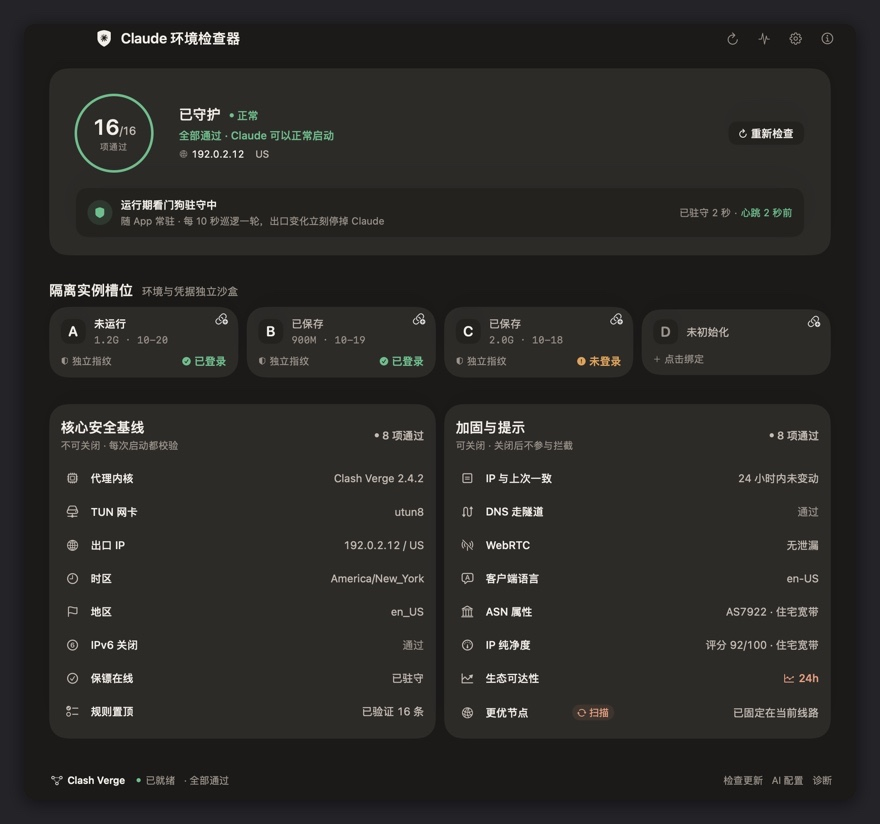
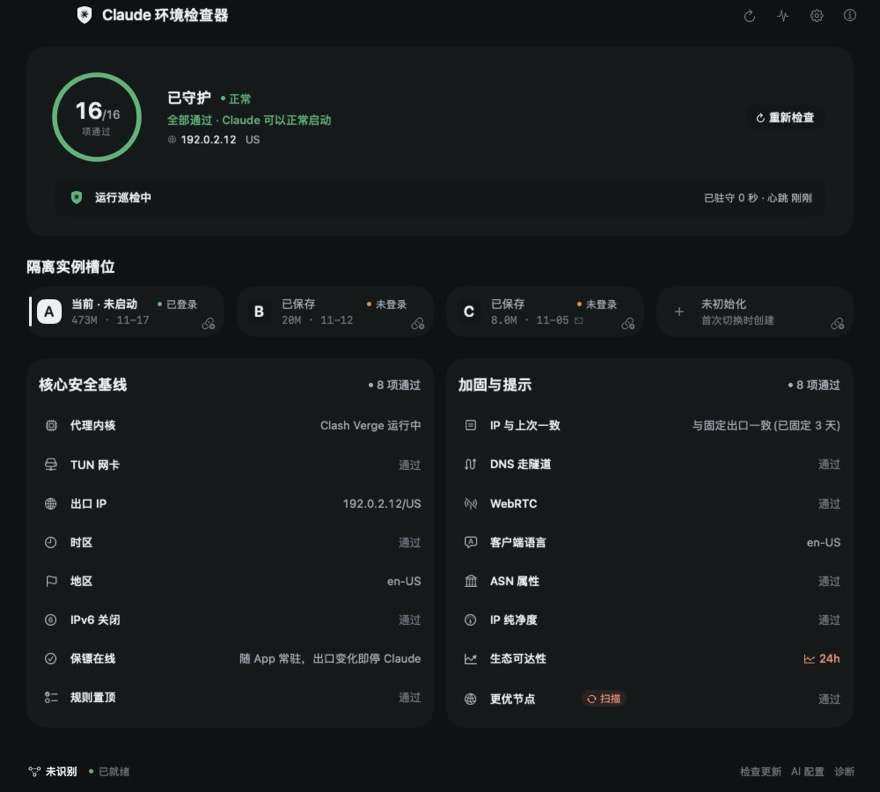
docs: 术语统一到「巡检」、槽位改 A–H，按新口径重写纯净度说明；截图重拍
- README / README.en / ARCHITECTURE / SECURITY / AGENTS：看门狗 → 巡检
- 槽位范围 A–D → A–H（命令示例、缓存文件名、目录路径、门禁判据一并改）
- 纯净度口径按当前实现重写：信誉维度连续扣分、类型只看结构证据、
  两级封顶（没正面证据 70 / 风险没验成 85），AGENTS 的「八条口径」
  第 3、7、8 条与缓存版本说明（v3→v7）同步更新
- 截图重拍：隔离探针 + 假核心，构造数据（192.0.2.12 / Comcast），
  docs/screenshot.png 1200×1080、docs/images/*.jpg 880×792；
  图上不再出现「看门狗」与旧的 70 分自相矛盾文案
- MenuBarFixture 支持 DEMO_HOME：截图不再把真机 incidents/rtt 画进去

diff --git a/tests/MenuBarFixture.swift b/tests/MenuBarFixture.swift
@@ -9,6 +9,12 @@ final class FixtureDelegate: AppDelegate {
             fatalError("隔离演示需要显式传入 fake-core.sh 路径")
         }
         super.init(vm: VM(core: CommandLine.arguments[1]))
+        // 截图用：把「拦截历史 / 延迟采样」指到演示目录，别把真机记录画进去。
+        // NSHomeDirectory() 不认 $HOME，所以这里显式改路径（两个字段在生产代码里是 var）。
+        if let demo = ProcessInfo.processInfo.environment["DEMO_HOME"] {
+            vm.incidentsPath = demo + "/.claude-switcher/incidents.log"
+            vm.rttPath = demo + "/.claude-switcher/rtt.log"
+        }
     }
 
     override func applicationDidFinishLaunching(_ notification: Notification) {

diff --git a/AGENTS.md b/AGENTS.md
@@ -36,10 +36,10 @@
 2. **不要把环境值写进代码或安装器 sed**。历史上安装器、`set-client`、`set-region`、自动更新都在用 sed 回写脚本头部 5 个变量,导致安装产物 ≠ 发布产物、SHA256 校验要剔除 5 行、升级还要回注——这套已全部拆除,别再引入。
 3. **探测不到就明确报错,不要静默用默认值**。`load_env` 遇到损坏的 env.json 会 fail,因为环境值错会直接把规则写进错误的代理组。
 
-关于时区看门狗(踩过一次,代价是「修好了又坏了」):
+关于时区巡检(踩过一次,代价是「修好了又坏了」):
 
-- **看门狗的目标值只能来自 env.json**,脚本里那份 `TARGET=` 只是读不到 env.json 时的兜底。原来安装器把目标烧死进脚本,`set-region` / `fix` 只改 env.json 和系统时区,没人回来改这份副本——看门狗于是每 5 分钟（`StartInterval 300`）把系统时区改回旧值,用户每次点「一键修复」都以为没生效。
-- **改系统时区必须同时对齐看门狗**,两件事要落在同一次管理员授权里(`fix` 的 `adminCmds`),否则修完几分钟就被改回去。
+- **巡检的目标值只能来自 env.json**,脚本里那份 `TARGET=` 只是读不到 env.json 时的兜底。原来安装器把目标烧死进脚本,`set-region` / `fix` 只改 env.json 和系统时区,没人回来改这份副本——巡检于是每 5 分钟（`StartInterval 300`）把系统时区改回旧值,用户每次点「一键修复」都以为没生效。
+- **改系统时区必须同时对齐巡检**,两件事要落在同一次管理员授权里(`fix` 的 `adminCmds`),否则修完几分钟就被改回去。
 - **`TARGET=` 有两种写法**:安装器写 `TARGET="x"`,同步时写 `TARGET=x`。读的一律剥引号,不要匹配引号。
 
 
@@ -58,7 +58,7 @@
 2. 探测代理客户端，用 `claude-switch.sh _support env-set "proxy_mode=..."` 写进 `~/.claude-switcher/env.json`：存在 Clash Verge 配置目录 → `clash-verge`；否则 `scutil --nc list` 有 Shadowrocket VPN 配置 → `shadowrocket`；都没有则让用户在 clash-verge/flclash/shadowrocket/sing-box/clashx/surge/auto 中选择
 3. Clash Verge 模式下，从 `clash-verge.yaml` 的 `proxy-groups:` 找第一个 `type: select` 的组名，同样用 `env-set "proxy_group=..."` 写入（其他客户端跳过）
 4. 按出口 IP 自动锁定地区目标：多源依次尝试 ipinfo.io（country/timezone）→ ipapi.co（country_code/timezone）→ ifconfig.co（country_iso/timezone）→ Cloudflare trace（loc，时区用国家默认映射），全失败时让用户在 US/JP/TW/HK/SG/GB/DE/FR/KR/AU/CA 中手动选，`FORCE=1` 按 US + America/New_York；country 经映射表（US→en_US、JP→ja_JP、TW→zh_TW、HK→zh_HK、SG→en_SG、GB→en_GB、DE→de_DE、FR→fr_FR、KR→ko_KR、AU→en_AU、CA→en_CA，其余→en_US）→ locale，然后用 `env-set "country=..." "timezone=..." "locale=..."` 写入 env.json
-5. 参照 `daemons/` 目录的模板，物化保镖与时区看门狗脚本（把 `__HOME__` / `__TZ_TARGET__` / `__PROXY_MODE__` / `__FAKE_PREFIX__` / `__LOG_DIR__` 替换为实际值；`__FAKE_PREFIX__` 由核心 `fake-prefix` 按 env.json 的 fake-ip 网段算出，不能退回写死 `198.18.`），用 sudo 装入 **root 所有的** `/Library/Application Support/claude-switcher/`（chown root:wheel、chmod 755，用户态不可写防提权）；`local.claude-bodyguard` / `local.tz-watchdog` 两个 LaunchDaemon 安装到 `/Library/LaunchDaemons/`（plist 的 ProgramArguments 已写死指向系统目录，直接 cp 即可）。自动更新 `local.claude-update` 是**用户态 LaunchAgent**：plist 放 `~/Library/LaunchAgents/`，用 `launchctl bootstrap gui/$(id -u)` 注册，不走 root（模板 `daemons/local.claude-update.plist`，每 12 小时跑一次 `update --auto`）
+5. 参照 `daemons/` 目录的模板，物化保镖与时区巡检脚本（把 `__HOME__` / `__TZ_TARGET__` / `__PROXY_MODE__` / `__FAKE_PREFIX__` / `__LOG_DIR__` 替换为实际值；`__FAKE_PREFIX__` 由核心 `fake-prefix` 按 env.json 的 fake-ip 网段算出，不能退回写死 `198.18.`），用 sudo 装入 **root 所有的** `/Library/Application Support/claude-switcher/`（chown root:wheel、chmod 755，用户态不可写防提权）；`local.claude-bodyguard` / `local.tz-watchdog` 两个 LaunchDaemon 安装到 `/Library/LaunchDaemons/`（plist 的 ProgramArguments 已写死指向系统目录，直接 cp 即可）。自动更新 `local.claude-update` 是**用户态 LaunchAgent**：plist 放 `~/Library/LaunchAgents/`，用 `launchctl bootstrap gui/$(id -u)` 注册，不走 root（模板 `daemons/local.claude-update.plist`，每 12 小时跑一次 `update --auto`）
 6. 现场编译界面 App（需要 Xcode 命令行工具，必须带 `-target` 否则新 SDK 产物在老系统拒启动）：
    ```bash
    swiftc -O -parse-as-library -target "$(uname -m)-apple-macos13.0" app/main.swift -o "Claude 环境检查器.app/Contents/MacOS/ClaudeSwitcher" -framework SwiftUI -framework AppKit
@@ -70,11 +70,11 @@
 8. 时区与 IPv6（已是目标值则跳过对应命令）：`systemsetup -settimezone <TZ_TARGET>`、对每个仍开启 IPv6 的网络服务执行 `networksetup -setv6off <服务名>`（需管理员；不能只关 Wi-Fi）
 9. 收尾自检：运行 `~/.local/bin/claude-switch.sh checkdetail` 确认各项状态
 
-日常维护命令：`help`（分组命令说明，含 ok/warn/config/fail/skip 五种结论的含义；未知命令直接指到这里）/ `check`（静默总检）/ `checkdetail`（16 项逐项；`checkdetail --json` 输出版本化报告并写 `last-report.json`）/ `report [报告]`（把已有文本报告转成稳定 ID / 证据 / 配置指纹 JSON，不重新探测）/ `lease`（从当前 established 报告签发 120 秒启动租约）/ `lease-check`（校验租约仍对应当前报告、环境与核心且未过期）/ `node-scan`（只读扫描当前控路 Selector 的候选节点，按纯净度排名出报告；不切节点、不动守护、不写 iphistory）/ `node-apply`（仅门禁允许时把最优节点切上去并固定；切前实时复核门禁、切后复查出口国家，不达标自动回滚）/ `fix`（一键修复）/ `switch A|B|C|D`（切换账号）/ `set-region`（换国家节点后重锁地区目标）/ `set-client <mode>`（安装后更换代理客户端：clash-verge|flclash|shadowrocket|sing-box|clashx|surge|auto，写 env.json）/ `env-set <key=value>...`（写环境层，键限 proxy_mode|proxy_group|country|timezone|locale|clash_dir|fake_ip_range；损坏的 env.json 会让核心脚本直接 fail，需用它重建）/ `drill [--auto|--manual] [--yes]`（fail-closed 演练：平时检查只能证明「流量走了代理」，证明不了「代理挂了会不会直连」。默认 auto 通过内核接口关 TUN——效果等价于核死时路由被撤销，但能精确恢复、不需要 sudo；`--manual` 走手动停核。结论写 `~/.claude-switcher/drill.log`。2026-11-01 实测本机为 `violated`：关掉 TUN 后域名探测直接从中国移动出口出去）/ `verdict [报告]`（只读复核 `last-check.txt`，输出 established|violated|incomplete 与 blockers/advisories/skipped；warn 与 skip 既不算 pass 也不算 fail；`config` 与 `fail` 一样计入 blockers；一项都没真正验证过是 incomplete——「没有失败」不等于「验过了」）/ `evidence <file>`（检查结果落 JSON：时间/主机/环境/逐项/判定，0600，只新建不覆盖）/ `fingerprint`（设备指纹体检：字体地区特征/GPU/虚拟机；Canvas/WebGL 用 Web 检测页）/ `cli-info`（Claude Code CLI 只读体检：版本/安装方式/多份安装冲突，不执行卸载升级）/ `open-safe <url>`（一次性隔离浏览器打开 http/https 链接；代理未就绪会拒绝，窗口关闭后销毁临时 profile）/ `snapshot-export <A|B|C|D> <file>` / `snapshot-import <file> <A|B|C|D>`（macOS 加密快照导出/导入，AES-256 DMG，密码经 stdin，目标槽位非空会拒绝）/ `update [--check|--auto]` / `update-check`（自动更新：`update-check` 为只读检查入口，只下载并校验、比对配置行后报告是否为新版本，不备份不写入；旧版核心不识别该入口时会安全退出，不会误触发真实更新；`update --check` 在新版中等价；`--auto` 由用户态 LaunchAgent 每 12 小时调用、输出落 `~/.claude-switcher/update.log`；手动跑则直接打印。完整流程：拉取 main → 逐项 SHA256 校验工件（对照仓库 SHA256SUMS，不符即中止）→ 整份比对核心脚本去重 → 备份 .bak → 替换脚本并把老版本脚本头部里的环境值迁进 `env.json` → 守护脚本仅比对并提示 → 自检，含任何 `=fail` 自动回滚）
+日常维护命令：`help`（分组命令说明，含 ok/warn/config/fail/skip 五种结论的含义；未知命令直接指到这里）/ `check`（静默总检）/ `checkdetail`（16 项逐项；`checkdetail --json` 输出版本化报告并写 `last-report.json`）/ `report [报告]`（把已有文本报告转成稳定 ID / 证据 / 配置指纹 JSON，不重新探测）/ `lease`（从当前 established 报告签发 120 秒启动租约）/ `lease-check`（校验租约仍对应当前报告、环境与核心且未过期）/ `node-scan`（只读扫描当前控路 Selector 的候选节点，按纯净度排名出报告；不切节点、不动守护、不写 iphistory）/ `node-apply`（仅门禁允许时把最优节点切上去并固定；切前实时复核门禁、切后复查出口国家，不达标自动回滚）/ `fix`（一键修复）/ `switch A|B|…|H`（切换账号）/ `set-region`（换国家节点后重锁地区目标）/ `set-client <mode>`（安装后更换代理客户端：clash-verge|flclash|shadowrocket|sing-box|clashx|surge|auto，写 env.json）/ `env-set <key=value>...`（写环境层，键限 proxy_mode|proxy_group|country|timezone|locale|clash_dir|fake_ip_range；损坏的 env.json 会让核心脚本直接 fail，需用它重建）/ `drill [--auto|--manual] [--yes]`（fail-closed 演练：平时检查只能证明「流量走了代理」，证明不了「代理挂了会不会直连」。默认 auto 通过内核接口关 TUN——效果等价于核死时路由被撤销，但能精确恢复、不需要 sudo；`--manual` 走手动停核。结论写 `~/.claude-switcher/drill.log`。2026-11-01 实测本机为 `violated`：关掉 TUN 后域名探测直接从中国移动出口出去）/ `verdict [报告]`（只读复核 `last-check.txt`，输出 established|violated|incomplete 与 blockers/advisories/skipped；warn 与 skip 既不算 pass 也不算 fail；`config` 与 `fail` 一样计入 blockers；一项都没真正验证过是 incomplete——「没有失败」不等于「验过了」）/ `evidence <file>`（检查结果落 JSON：时间/主机/环境/逐项/判定，0600，只新建不覆盖）/ `fingerprint`（设备指纹体检：字体地区特征/GPU/虚拟机；Canvas/WebGL 用 Web 检测页）/ `cli-info`（Claude Code CLI 只读体检：版本/安装方式/多份安装冲突，不执行卸载升级）/ `open-safe <url>`（一次性隔离浏览器打开 http/https 链接；代理未就绪会拒绝，窗口关闭后销毁临时 profile）/ `snapshot-export <A|B|…|H> <file>` / `snapshot-import <file> <A|B|…|H>`（macOS 加密快照导出/导入，AES-256 DMG，密码经 stdin，目标槽位非空会拒绝）/ `update [--check|--auto]` / `update-check`（自动更新：`update-check` 为只读检查入口，只下载并校验、比对配置行后报告是否为新版本，不备份不写入；旧版核心不识别该入口时会安全退出，不会误触发真实更新；`update --check` 在新版中等价；`--auto` 由用户态 LaunchAgent 每 12 小时调用、输出落 `~/.claude-switcher/update.log`；手动跑则直接打印。完整流程：拉取 main → 逐项 SHA256 校验工件（对照仓库 SHA256SUMS，不符即中止）→ 整份比对核心脚本去重 → 备份 .bak → 替换脚本并把老版本脚本头部里的环境值迁进 `env.json` → 守护脚本仅比对并提示 → 自检，含任何 `=fail` 自动回滚）
 
 检查设置：`get-check-config` / `set-check-config <json>` 读写 `~/.claude-switcher/checks.json`，App 齿轮与菜单栏也提供设置入口。只允许关闭 `IP一致`、`DNS`、`WebRTC`、`客户端语言`、`ASN属性`、`IP纯净度`、`生态可达性`、`更优节点`；禁用项必须真正跳过探测并显示灰色 `skip`，不能当作通过。`allowOptionalFailures` 只把这 8 项的失败降为警告；`strict` 把其中某些项升成硬门槛——设了就不受 `allowOptionalFailures` 影响，失败直接拦启动（「生态可达性设为安全基线」就是这条）。`strict` 与 `disabled` 互斥，同时出现时核心拒收。App 保存设置时必须把 `strict` 原样带回，漏掉等于每保存一次就静默清空安全基线。出口国家一致性、代理/TUN、Kill-Switch、保镖、账号归档安全、root 权限边界与更新 SHA256 等硬性安全项不可关闭或降级。
 
-关于 IP 纯净度（第 14 项，`ip_purity`）：口径是**类型基线 − 扣分**，基线取 ip.net.coffee 实测区间的中位（住宅 100 / 移动 85 / VPN 65 / 机房 55 / Tor 46 / 类型不明 70），判定阈值比分数严。八条不能改回去的口径：
+关于 IP 纯净度（第 14 项，`ip_purity`）：口径是**类型基线 − 扣分**，基线取 ip.net.coffee 实测区间的中位（住宅 100 / 移动 85 / VPN 65 / 机房 55 / Tor 46 / 类型不明 70），判定阈值比分数严。**扣分连续、类型与信誉分离**（2026-11-20 改，见第 3、7、8 条）。八条不能改回去的口径：
 
 1. **不要改回单源。** 四个源交叉：`api.ipquery.io`（风险标志+风险分）、`ip-api.com`（proxy/hosting/mobile+城市，免费档只支持 http）、`ipinfo.io`（ASN+城市，顺带省掉一次请求）、`api.stopforumspam.org`（滥用频次）。
 
@@ -83,7 +83,7 @@
    这条是 2026-11-19 改的，原因是实测样本：AS14956 的三个出口里，ipquery 三份响应每个字段都一样（`is_datacenter:true`、`risk_score:85`、`is_proxy:false`、`is_vpn:false`），只有 `144.172.65.26` 被 ip-api 单独标了 `proxy:true` —— 结果同一台机器换个 IP 就从 「43 warn 可启动」变成「53 fail 拦启动」。一个来源的一个布尔不该有这种决定权。
    **代价要说清楚**：只有 ip-api 报的代理特征（例如 Cloudflare WARP 那种 `ipquery` 只报 datacenter 的情形）从此不再拦启动，降为「机房 + 单源标记」。补偿是 ipquery 的 `is_proxy`/`is_vpn` 单独就算硬证据，以及 PTR 自曝仍算一源。如果以后拿到 WARP 的反例实测，要么补 PTR/org 的第二证据，要么把 `px_src` 阈值改回 1——改之前先想清楚这会重新引入「同节点换 IP 结论翻脸」。
 2. **不要丢掉 `dig +short -x`。** PTR 是出口自己写下的身份（`tor-exit-read-me.dfri.se`、`…static.cloudzy.com`、`c-73-158-10-5.hsd1.ca.comcast.net`），比任何第三方评分都硬；实测 fake-ip 不劫持反向解析。但也**不要加 DNSBL**：fake-ip 劫持所有 A 查询统一回 `198.18.0.x`，黑名单结果全是假的。
-3. **风险分与滥用记录取较大者，不许相加。** 两者都是历史信誉信号且高度相关（Tor 出口天然两项都高），相加等于同一个事实罚两次，会让 51 分和 49 分的机房得到相反结论。
+3. **风险分与滥用记录取较大者，不许相加，且各自都是连续函数。** 两者都是历史信誉信号且高度相关（Tor 出口天然两项都高），相加等于同一个事实罚两次，会让 51 分和 49 分的机房得到相反结论。各自档位也不许改回阶梯：风险分 `(risk×12+30)/60`（每 5 分风险 1 分信誉，60 以上封顶 12），滥用 `5+频次/5`（1 次 5 分，45 次以上封顶 14）。旧的阶梯档（1-10→3 / 11-25→7 / 26-50→9 / ≥51→12）有两个后果：同档内 1 和 10 同分、11 和 25 同分，数字看着精确其实只表达「在第几档」；档口还会跳，risk 10→11 一次掉 4 分。实测枚举下来旧口径只有 36 个可达分值，连续化后 32–100 每个整数都取得到。
 4. **地理那一维只标记、不扣分。** 先查三源城市是否一致。实测 RouterHosting `144.172.103.106` 被 ipquery/ipinfo 报犹他、被 ip-api 报内华达，跨了州；这时拿任一源的时区去要求用户对齐就是冤枉人，只能标「地理模糊」。住宅整段跳过（家宽注册地≠接入地不是风险，且另有时区项在管）；**Tor 与代理也必须跳过**——它们的「城市」是数据中心位置，三源按各自出口点库去标必然不一致（实测两个随机 Tor 出口全部命中），挂这个标记是纯噪声。
    **这些标记不再进分数**：地理维度和「时区」检查项说的是同一件事，扣一次分等于重复计费；而且 ip.net.coffee 的 Trust Score 不含这一维，我们多扣 4~6 分，用户拿两边一比就以为我们算错（2026-11-06 实测）。
 
@@ -91,7 +91,9 @@
 
 6. **分数与判定是两个轴，不要在文案里让用户互相反推。** 分数是 IP 信誉（宽口径，对齐 ip.net.coffee 的 Trust Score），判定回答「这次能不能开」。实测用户会拿「这个 53 分、那个 43 分」推断「53 更安全」，而 53 那个其实是 `fail`（VPN 基线 65 高于机房 55，越危险的类型基线反而越高）。做法：纯度文案末尾显式写 `判定:拦启动 / 判定:仅提示`；判定表本身按类型与证据走，机房只在分数掉到 30 以下（转租段）才拦。不要再把分数当判定的代理。
 
-7. **「没查到问题」不是「住宅」的证据。** `clean_residential`（两源都答、标志全否、risk≤10、无滥用、名字里无机房词）只能说明没有负面信号。实测 AS3257 GTT 的 `66.17.65.38` 靠这条拿到 `100/100 · 住宅宽带`，而它是骨干网地址。现在的口径：类型保留住宅（与参考站一致，不硬说成机房），**分数封顶 70** 并标 `·无正面住宅证据`；正面住宅证据只有两种——运营商名命中住宅白名单，或 PTR 自曝 `hsd/dynamic/dhcp/broadband/adsl/ppp/dial/dsl/fiber/cable`。
+7. **「没查到问题」不是「住宅」的证据；信誉维度也不许参与类型判定。** `clean_residential` 只说明没有负面结构信号（两源都答、`asn_org` 非空、运营商名不属机房、`dc`/`host_hint`/`px`/`tor`/`mob` 全空）。2026-11-20 之前它把「risk≤10 且无滥用」也写进条件，后果是同一个出口 `risk_score` 从 10 变 11，类型就从「住宅宽带」翻成「类型不明」、分数 67→63、还多一句「建议换住宅」——一个 1 分的信誉抖动改了三处结论。现在类型只由结构证据决定，`risk_score` / 滥用只进分数。
+   **分数封顶 70 的条件不变**：类型是住宅、但没有正面证据（运营商名命中住宅白名单，或 PTR 自曝 `hsd/dynamic/dhcp/broadband/adsl/ppp/dial/dsl/fiber/cable`）时封顶 70 并标 `·无正面住宅证据`。实测 AS3257 GTT 的 `66.17.65.38` 就停在这里：三家源都说干净，但拿不到正面证据。
+   **另有一条封顶 85**（第 8 条）：风险维度没验成时，分数最多 85、判定最多 `warn`，标 `·风险未验证·封顶`。70 和 85 含义不同，不要合并成一个数：70 是「类型对但没证据」，85 是「类型有证据但风险没验」。
 
 8. **「数据源认识这个地址吗」与「拿到几个风险信号」必须分开判（`known` 与 `src_n`），不要合并成一个布尔。** 前者回答地址是否真实存在，用来挡空壳响应（ipquery 对 `192.0.2.55` 会回结构完整、标志全 false、风险分 0 的空壳，和「住宅且毫无风险」长得一模一样）；后者回答证据够不够。合并之后两侧都会错：空壳拿到 100 分，或者在有运营商名、有 PTR 的情况下只回一句没有信息量的「未评级」。
 
@@ -99,16 +101,17 @@
 
    | 情形 | 结论 |
    |---|---|
-   | `src_n == 2` | 正常评分 |
-   | `src_n == 1` | 正常评分 + 标 `·仅一家风险源可达`（缺一家就可能漏判代理特征，但不改判定） |
+   | `src_n == 2` 且拿到 `risk_score` | 正常评分 |
+   | `src_n == 1` | 类型照判，**分数封顶 85、判定最多 warn**，标 `·仅一家风险源可达`（缺一家就可能漏判代理特征） |
+   | `src_n == 2` 但 ipquery 没给 `risk_score` | 同上，标 `·风险未验证·封顶`（分数标签写「风险未验证」） |
    | `src_n == 0` 且 `known` | **降级判型**：按运营商名 / PTR 定类型，`base` 封顶 70、判定封顶 warn，标 `·风险源不可达`，下一句换成「仅按运营商名或反向解析判型,稍后重查」 |
    | `known` 为空 | 「未评级」+ warn，且不写缓存 |
 
-   降级判型的两个封顶都不能拆：报 100 分是用「没查」冒充「查干净了」；把 warn 升成 fail 是拿我们自己的网络抖动去堵用户（IP 纯净度是可关闭的软信号，不是 Kill-Switch）。另外 PTR 能解出来本身就证明地址存在，所以 `rdns` 非空也算 `known` —— 三家 HTTP 源全挂时它是最后一根线索。
+   三个封顶都不能拆：报 100 分是用「没查」冒充「查干净了」（2026-11-20 之前 `src_n == 1` 确实会报 100/ok，实测 ipquery 挂掉时 Comcast 出口照样满分）；把 warn 升成 fail 是拿我们自己的网络抖动去堵用户（IP 纯净度是可关闭的软信号，不是 Kill-Switch）；降级的 70 与未验证的 85 是两档不同的证据状态，合并就分不出「类型不明」和「类型对但风险没验」。另外 PTR 能解出来本身就证明地址存在，所以 `rdns` 非空也算 `known` —— 三家 HTTP 源全挂时它是最后一根线索。
 
 机房出口只给 warn 不拦启动（大量用户就用机房节点），代理特征与 Tor 才拦；机房只有掉到 30 分以下（转租段+滥用记录）才拦。
 
-结果缓存 24 小时（`~/.claude-switcher/purity-cache.v4`），**查不到不写缓存**，否则一次网络抖动会把「未知」钉住一整天。缓存七个字段的顺序是 `ip|时间戳|判定|分数|类型|detail|cc`，分隔符是 `|`：不要改回 tab，tab 属于 IFS 空白，`read` 会把前导空字段整个吞掉，导致 score 与 detail 静默错位。第 7 列 `cc` 是出口国家代码，从已有的 ip-api / ipquery / ipinfo 响应里顺带取出，不发额外请求，供节点扫描的国家硬门槛使用。文件名带 `v3` 是因为多了这一列（v2 的 6 列没有它，混读会让 detail 把 `|US` 吞进去，宁可让旧缓存整体作废）；带 `v4` 是因为 2026-11-06 的类型判定改成证据驱动 —— 列结构没变、**结论口径变了**，不换名字的话升级后 24 小时内还会读到「类型不明 / 机房」的旧结论，用户重装完以为又没修好。改判定必须顺手换缓存名。**降级判型与「仅一家风险源可达」这两类结果不能缓存满 24 小时**——写入时把时间戳往前拨成仅剩 5 分钟 TTL，否则一次数据源抖动会把「没查干净」钉住一整天。多个 IP 并发打分时各自写缓存会互相覆盖，用 `mkdir .purity-cache.lock` 串行化。
+结果缓存 24 小时（`~/.claude-switcher/purity-cache.v7`），**查不到不写缓存**，否则一次网络抖动会把「未知」钉住一整天。缓存七个字段的顺序是 `ip|时间戳|判定|分数|类型|detail|cc`，分隔符是 `|`：不要改回 tab，tab 属于 IFS 空白，`read` 会把前导空字段整个吞掉，导致 score 与 detail 静默错位。第 7 列 `cc` 是出口国家代码，从已有的 ip-api / ipquery / ipinfo 响应里顺带取出，不发额外请求，供节点扫描的国家硬门槛使用。文件名带 `v3` 是因为多了这一列；`v4` 是类型判定改成证据驱动；`v5` 是代理特征按源计数 + 判定词显式化；`v6` 是住宅档不再劝人换住宅；`v7` 是信誉维度改连续扣分 + 风险未验证封顶 85 —— **分数本身变了**，不换名字会让新旧口径的数字混在同一个列表里。列结构没变但**结论口径变了**时也必须换名字，否则升级后 24 小时内还会读到旧结论，用户重装完以为又没修好。**降级判型、「仅一家风险源可达」、「风险未验证」这三类结果不能缓存满 24 小时**——写入时把时间戳往前拨成仅剩 5 分钟 TTL，否则一次数据源抖动会把「没查干净」钉住一整天。多个 IP 并发打分时各自写缓存会互相覆盖，用 `mkdir .purity-cache.lock` 串行化（超过 60 秒的残留锁自动回收）。
 
 **不要把「可关闭」摆到主界面上**：16 项默认全部拦启动，按能不能关分组会让人以为「有些可以不拦」，等于把降级当选项推荐。主界面只列一份清单；关闭入口只在设置页的「降级防护（不推荐）」里。关掉之后必须持续可见——主界面常驻橙色「防护已降级：…」，`check` 输出追加 `|防护降级:…`，否则命令行、日志、自动化这些看不到界面的地方完全无从判断。
 
@@ -125,9 +128,9 @@
 
 出口身份归一：`IP一致` 不直接比原始地址，而是比归一身份——v4 原样，v6 取 `/64` 前缀。`lastip` 按协议族各存一行，两族互不覆盖，所以同一节点双栈交替（先报 v4 再报 v6、或 v6 在同一 /64 内换接口标识）不会被判成「IP 变了」。旧版写下的裸地址在读取时自动迁移，升级后第一次检查不会误报。
 
-`IP一致` 的判据是**固定基线**：`ipbaseline-<A-D>` 存一行「身份 + 确立时间」，结论只回答「现在用的是不是这条固定出口」。不数「窗口里出现过几个出口」——跳到别处 → 被熔断 → 又切回原出口，这条链路里基线从没变过，用户回来继续用就是正常的，不该背一条「IP 变过」的记录。第一次运行把当前出口记为基线且不告警；不一致时按 `ip_class` 分级措辞（机房/家宽/其它），并给出「已固定多久」与改法，改基线只能 `ip-baseline accept`（`ip-baseline show` 查当前值与天数）。**绝不自动采纳新出口**，否则「一周不变」当场作废。
+`IP一致` 的判据是**固定基线**：`ipbaseline-<A-H>` 存一行「身份 + 确立时间」，结论只回答「现在用的是不是这条固定出口」。不数「窗口里出现过几个出口」——跳到别处 → 被熔断 → 又切回原出口，这条链路里基线从没变过，用户回来继续用就是正常的，不该背一条「IP 变过」的记录。第一次运行把当前出口记为基线且不告警；不一致时按 `ip_class` 分级措辞（机房/家宽/其它），并给出「已固定多久」与改法，改基线只能 `ip-baseline accept`（`ip-baseline show` 查当前值与天数）。**绝不自动采纳新出口**，否则「一周不变」当场作废。
 
-出口历史（`iphistory-<A-D>.log`）只剩证据用途，不是判据：只在出口**变化**时追加一行，稳态零写入、零统计；只有已判定与基线不一致时才 `iphist_count` 一次，用来区分「第一次跳」和「老在跳」。这条设计是响应速度的关键——原来每次检查都要重写整个文件并逐行归一，实测 2000 行 1.3s / 20000 行 13s，而它对当次结论没有任何贡献。文件按实例分开，读不到槽位时退回单份旧文件。`出口IP` 走 v6 时**不再**额外标注「IPv6 出口」——冒号地址本身已说明协议族，补这一句反而容易让用户误以为自己开了本机 IPv6。三条相关行各说各的层，不要合并：`IPv6` 查本机网卡（出口是 v6 时写「本机已关闭 · 节点出口为 IPv6」）；`出口IP` 报节点侧对 Cloudflare 呈现的地址；`WebRTC` 的 STUN 探针只走 v4，无 v4 出口时写「节点无 IPv4 出口，STUN 只回 IPv4，无法比对(非泄漏)」。
+出口历史（`iphistory-<A-H>.log`）只剩证据用途，不是判据：只在出口**变化**时追加一行，稳态零写入、零统计；只有已判定与基线不一致时才 `iphist_count` 一次，用来区分「第一次跳」和「老在跳」。这条设计是响应速度的关键——原来每次检查都要重写整个文件并逐行归一，实测 2000 行 1.3s / 20000 行 13s，而它对当次结论没有任何贡献。文件按实例分开，读不到槽位时退回单份旧文件。`出口IP` 走 v6 时**不再**额外标注「IPv6 出口」——冒号地址本身已说明协议族，补这一句反而容易让用户误以为自己开了本机 IPv6。三条相关行各说各的层，不要合并：`IPv6` 查本机网卡（出口是 v6 时写「本机已关闭 · 节点出口为 IPv6」）；`出口IP` 报节点侧对 Cloudflare 呈现的地址；`WebRTC` 的 STUN 探针只走 v4，无 v4 出口时写「节点无 IPv4 出口，STUN 只回 IPv4，无法比对(非泄漏)」。
 
 客户端日志与诊断：默认在 `~/Library/Logs/claude-switcher/client.log` 记录脱敏命令元数据，512 KiB 后轮转为 `client.log.1`，可用配置中的 `logging` 关闭。`export-diagnostics <file>` 与 App「导出诊断日志」生成 zip，只含客户端日志、检查设置和脱敏环境/状态摘要。不得把公网/住宅/代理 IP、Bearer/token/session/cookie、账号内容、Clash 配置、`lastip`、`iphistory` 或原始 `last-check.txt` 写入日志或诊断包。
 
@@ -135,16 +138,16 @@
 
 ## 节点扫描与应用（第 16 项，只读优先）
 
-写这一层代码前先把边界记住：**扫描只读，应用只在门禁允许时切一次**。逐节点「切上去实测出口」那条路会写 N 条 `iphistory.log`，把「IP 与上次一致」凭空扣成分数，还会被看门狗当成出口变化直接停掉 Claude——不允许走。
+写这一层代码前先把边界记住：**扫描只读，应用只在门禁允许时切一次**。逐节点「切上去实测出口」那条路会写 N 条 `iphistory.log`，把「IP 与上次一致」凭空扣成分数，还会被巡检当成出口变化直接停掉 Claude——不允许走。
 
 - `node-scan` 从运行中内核的 `/proxies` 沿 `now` 链找到**最深一层含叶子的 Selector**，只列当前真正控路的组；递归列所有嵌套 Selector 会把「☑ 手动切换」那 75 个无关节点也带进来。
 - 合并配置 `proxies:` 块只按白名单读 `name / server / servername / sni / host / type / udp / network` 八个字段，**不读 `uuid` / `password` / 证书**，不导出订阅原文，报告与诊断包都不含凭据。这与 FlClash 一键修复的「不读订阅节点与凭据」是两条独立边界：那条写规则数据库、不碰节点；这条只读节点名和入口地址、不写任何代理配置。
 - **硬门槛先于纯净度**：国家不符 / 国家取不到 / Tor 或代理判定 / UDP 未标注的节点都不参与推荐。带 `servername` / `Host` 的 CDN 前置节点 `server` 只是入口，标「出口未知」并排除，不能拿入口 IP 打分。多个叶子共用同一落地 IP 只查一次。
 - 差距不足 `NODE_SCAN_MARGIN`（10 分）不出 `BEST`，免得每次扫描都催用户改线路；清空 `BEST` 时必须连 `BEST_IP` / `BEST_SCORE` / `BEST_SELECTOR` 一起清，别留半截报告。
 - `checkdetail` 的第 16 项**只读报告文件**，绝不在 45 秒检查预算里发网络请求。没有报告 / 报告过期 → `skip`，不是 `ok`；`skip` 不扣分，用户关掉检查项不该反而掉分。有 `preferred-node` 时，`PREFERRED_MATCH=0` 优先于「还有更优节点」报「已偏离固定节点」。
-- 报告门禁 `node_gate()` 只看两个**瞬时**事实：Claude 进程 / CLI 在跑、看门狗仍在驻守，任一成立即 `report-only`。**不要**再把「任一 A–D 已建档槽位」算进去 —— 槽位是常驻资产，存过一次 `hasA=1` 就永远为真，那条判据会让 `node-apply` 对任何用过本工具的人永久拒绝，界面上「应用最优节点」从不出现。执行门禁 `node_apply_gate()` 必须**重新实时判定**，不信报告里的旧快照；看门狗那条从「pidfile 存在」升级为「进程确实已不在跑」的事实检查，残留 pidfile 不阻塞、真有守护仍拒绝。
+- 报告门禁 `node_gate()` 只看两个**瞬时**事实：Claude 进程 / CLI 在跑、巡检仍在驻守，任一成立即 `report-only`。**不要**再把「任一 A–H 已建档槽位」算进去 —— 槽位是常驻资产，存过一次 `hasA=1` 就永远为真，那条判据会让 `node-apply` 对任何用过本工具的人永久拒绝，界面上「应用最优节点」从不出现。执行门禁 `node_apply_gate()` 必须**重新实时判定**，不信报告里的旧快照；巡检那条从「pidfile 存在」升级为「进程确实已不在跑」的事实检查，残留 pidfile 不阻塞、真有守护仍拒绝。
 - 换槽位时这条链自己会走一遍（`VM.optimizeNodeForSwitch`）：审计通过 → `slot-node get <目标>` → `node-scan` → 有绑定就切绑定那条、否则报告里真有 `BEST` 才切 → `stopWatch()` + `node-apply <叶子>` → 重新审计 → 再切账号。三个例外都必须保留：扫描失败不阻断切换；`node-apply` 失败不阻断切换（只把原因写进回执）；换完线路重新审计没过就**不切账号**（fail-closed，新账号第一次连上的就是那条出口）。
-- **绑定优先于本次最优**：`BEST` 是「现在谁更干净」的比较结果，绑定是「这个身份就该走这条线」的声明，后者不能被一次扫描盖掉。所以 `node_apply` 支持显式叶子（`node-apply <leaf>`），无参时才取报告里的 `BEST`。绑定存 `$BASE/slot-node/<A-D>`，格式 `selector<TAB>leaf<TAB>epoch`，**不存分数**；命令族 `slot-node list|get|set|clear`。界面在槽位卡右上角给常驻的链接图标菜单，选项只来自最近一次报告的 `CURRENT` / `TOP1-3`，不让人手敲节点名。
+- **绑定优先于本次最优**：`BEST` 是「现在谁更干净」的比较结果，绑定是「这个身份就该走这条线」的声明，后者不能被一次扫描盖掉。所以 `node_apply` 支持显式叶子（`node-apply <leaf>`），无参时才取报告里的 `BEST`。绑定存 `$BASE/slot-node/<A-H>`，格式 `selector<TAB>leaf<TAB>epoch`，**不存分数**；命令族 `slot-node list|get|set|clear`。界面在槽位卡右上角给常驻的链接图标菜单，选项只来自最近一次报告的 `CURRENT` / `TOP1-3`，不让人手敲节点名。
 - 界面读绑定是直接读盘（`VM.loadSlotNodes`），核心脚本负责写。两处各自拼同一个路径，改动必须同步；`tests/test_cli_slot.py::SlotNodeBindingTests` 钉着这条契约。跟 `probeSlotLogin` 一样，读取属于显示需求，不塞进 `status` 的输出契约。
 - 守护归 App 管、切换归脚本管：App 先 `stopWatch()`，`node-apply` 不杀 App 持有的守护（否则 App 会误报「守护意外退出」），切完由 `checkEnvironment` 通过后自动 `startWatch()`。已建立的连接不会迁移；只对 `Selector` 生效，`URLTest` / `Fallback` 会被自动选路覆盖。
 
@@ -192,9 +195,9 @@ IP 纯净度那侧是独立的证据 bug，别和上面混：
 | 内容 | 桌面版 Claude | Claude Code |
 | --- | --- | --- |
 | 实时路径 | `~/Library/Application Support/Claude` | `~/.claude/`、`~/.claude.json` |
-| 槽内存档 | `$BASE/accounts/<A-D>/` | `$BASE/cli/<A-D>/home/`、`$BASE/cli/<A-D>/home.json` |
+| 槽内存档 | `$BASE/accounts/<A-H>/` | `$BASE/cli/<A-H>/home/`、`$BASE/cli/<A-H>/home.json` |
 
-- **不要**把 `~/.claude` 塞进 `accounts/<A-D>` 树：那棵树的语义是「桌面版数据目录的内容」，混入子目录会被原样复制回 `DATA`。并列放 `$BASE/cli` 也不动老快照，避免迁移几百 MB 历史目录。
+- **不要**把 `~/.claude` 塞进 `accounts/<A-H>` 树：那棵树的语义是「桌面版数据目录的内容」，混入子目录会被原样复制回 `DATA`。并列放 `$BASE/cli` 也不动老快照，避免迁移几百 MB 历史目录。
 - 归档用**移动语义**：`archive_cli` 先 `mv ~/.claude`，失败要能把已挪走的部分放回原位，不能留「目录没了、`~/.claude.json` 还在」的半截状态；`restore_cli` 会**先清空现场**再放回，目标槽位没存档时 `~/.claude` 和 `~/.claude.json` 一并删除 —— 否则没存过的槽位会接着用上一个账号的登录态，等于没隔离。
 - `switch_to` 开头用 `claude_cli_running` 挡住「终端里开着 claude 就切」：CLI 没有 osascript 那种优雅退出口子，直接把正在写的目录抽走会丢状态。进程判据三选一：`pgrep -x claude`（brew / `~/.local/bin` 的原生二进制，`argv[0]` 就是 `claude`）、`claude-code/cli.js`、`@anthropic-ai/claude-code`；大小写敏感，不能误伤桌面 App 的 `Claude`。
 - `status` 会把每个槽位的 CLI 存档体积报成 `cliA=151M@2026-11-04`，界面据此在卡片上加一个 `CLI` 角标；老脚本不输出这个字段，缺了就当没有，不能因此判 `status` 失败。
@@ -233,7 +236,7 @@ App 检查入口已改为 `checkdetail --json`：JSON 成功时按 `reportRowMap
 
 顺带修掉的既有缺陷：`build_report` 装配 `probes` 时取的是 `probes.get(...)`，条件却是 `if probes or drill`。**跑过一次 drill、又没有本轮 probes sidecar 时（离线 `report` 与 sidecar 失败两条路），对 None 取 `.get` 直接崩，整份 JSON 报告生成失败。**现在是 `(probes or {}).get(...)`。加可选字段时，判空条件要和取值对象对齐。
 
-## 运行期出口看门狗（watch）
+## 运行期出口巡检（watch）
 
 `check` 是拉起前的门禁，只管那一刻。`watch [间隔] [整轮周期]` 管「已经在用」的那段时间：出口变了就立刻停 Claude。四条纪律，改它之前先读完：
 
@@ -241,8 +244,8 @@ App 检查入口已改为 `checkdetail --json`：JSON 成功时按 `reportRowMap
 2. **v4/v6 分族记账，v6 只比 `/64` 前缀**。同一台机器在 v4 与 v6 之间来回切是代理正常行为，不是出口变化；v6 后缀轮换同理（隐私扩展地址天天换）。只有前缀变了才算换了网段。
 3. **一次失败不动手**。整轮审计失败先 `sleep 5` 复检，仍失败才停；出口探测连续 3 次拿不到地址才判定代理已断。一次 curl 抖动就杀进程，比漏判更让人受不了——这条是用户原话，别改。
 4. **停 Claude 必须落到 `pkill`**。`osascript quit` 对 Tauri/Electron 应用经常无响应，等 3 秒仍在就直接 `pkill`，同时清掉 `claude-code/cli.js` 与 `@anthropic-ai/claude-code` 两类 CLI 进程。少清一类，就会留下一个还在发请求的进程。
-5. **`TERM`/`INT` 的 trap 里必须 `exit`**。bash 的 trap 执行完会回到被中断的地方继续跑，只删 pidfile 不 `exit` 的话，App 的 `terminate()` 压根停不下看门狗——实测就是这样每重启一次 App 就多一个孤儿守护，各自拿一份基线判出口。`EXIT` 分支只做清理，不要 `exit`（会递归）。
-6. **定位看门狗只认 pidfile，不用 `pkill -f "claude-switch.sh watch"`**。`-f` 匹配整条命令行，任何命令行里含这串字的进程都会被误杀——包括用户自己的 `grep`、`tail`，以及诊断命令本身。实测踩到过，表现为「正在跑的 shell 突然收到 SIGTERM」。App 侧读 pidfile 后还要用 `ps -p <pid> -o command=` 确认一次，避免 pid 复用误杀无关进程。
+5. **`TERM`/`INT` 的 trap 里必须 `exit`**。bash 的 trap 执行完会回到被中断的地方继续跑，只删 pidfile 不 `exit` 的话，App 的 `terminate()` 压根停不下巡检——实测就是这样每重启一次 App 就多一个孤儿守护，各自拿一份基线判出口。`EXIT` 分支只做清理，不要 `exit`（会递归）。
+6. **定位巡检只认 pidfile，不用 `pkill -f "claude-switch.sh watch"`**。`-f` 匹配整条命令行，任何命令行里含这串字的进程都会被误杀——包括用户自己的 `grep`、`tail`，以及诊断命令本身。实测踩到过，表现为「正在跑的 shell 突然收到 SIGTERM」。App 侧读 pidfile 后还要用 `ps -p <pid> -o command=` 确认一次，避免 pid 复用误杀无关进程。
 
 拦截后的提醒走三条路：窗口横幅、菜单栏图标、系统通知。**通知不能省**——出问题时用户多半没开着窗口，前两条都看不见。通知走 `osascript display notification` 而不是 `UNUserNotificationCenter`：App 是 ad-hoc 签名，重签名后通知授权会失效。
 
@@ -254,7 +257,7 @@ App 检查入口已改为 `checkdetail --json`：JSON 成功时按 `reportRowMap
 
 7. **拦截必须留结构化记录**。`stop_claude_now` 末尾调 `watch_incident <原因> <类型>`，写 `incidents.log`：TAB 分隔「时间 / 类型 / 原因」三列，只留最近 50 条。界面的「拦截记录」卡片按 TAB 切列渲染，**列数或分隔符一改，界面就整条丢掉**。`watch.log` 是流水账（启动/复检/接管全在里面），别拿它当历史——用户想回看「上次为什么被停」时，从几百行里捞是灾难。空原因不写：一条只有时间的记录只会把真记录挤出 50 条窗口。
 
-App 退出时必须 `stopWatch()`。App 关了而看门狗还在杀 Claude，是最坏的一种组合。
+App 退出时必须 `stopWatch()`。App 关了而巡检还在杀 Claude，是最坏的一种组合。
 
 ## 验收标准（全部满足才算装完）
 
@@ -270,7 +273,7 @@ App 退出时必须 `stopWatch()`。App 关了而看门狗还在杀 Claude，是
 | 症状 | 根因 | 处理 |
 |---|---|---|
 | TUN 网卡消失、出口变回国内 | **Clash Verge 更新/异常重启会把 `enable_tun_mode` 重置为 false** | 退出 App → 改 `verge.yaml` 为 true → 重启 App。切换器的一键修复已内置此逻辑 |
-| 时区总是自己变回去 | macOS 自动时区或未知程序改动 | 看门狗会自动回滚；查 `/var/log/claude-switcher/tz-watchdog.log`（旧安装件仍在 `~/Library/Logs/tz-watchdog.log`）留痕 |
+| 时区总是自己变回去 | macOS 自动时区或未知程序改动 | 巡检会自动回滚；查 `/var/log/claude-switcher/tz-watchdog.log`（旧安装件仍在 `~/Library/Logs/tz-watchdog.log`）留痕 |
 | 检查结果显示 0/11、数据为空 | 中文日志被 `cut -c` 按字节截断产生非法 UTF-8，Swift 严格解码整体失败 | 脚本必须 `export LC_ALL=en_US.UTF-8`；界面端用容错解码 `String(decoding:as:)` |
 | 修改 App 后界面没变化 | 菜单栏版本关闭窗口仅隐藏；`pkill` 匹配中文路径还可能因 Unicode NFD 编码失配而静默失败 | 先从盾牌菜单选「退出 Claude 环境检查器」，再替换 App；开发排障也可按进程名退出测试实例。不要把关窗改回退出，以免破坏菜单栏驻留 |
 | headless Chrome 做 WebRTC 检测无结果 | headless 模式 ICE 子系统不产出候选 | 不要走浏览器路线，用本项目的纯 Python STUN 探针 |
@@ -290,7 +293,7 @@ App 退出时必须 `stopWatch()`。App 关了而看门狗还在杀 Claude，是
 3. 不要在日志、文档、Issue 里暴露用户的住宅/代理 IP 与任何凭据
 4. 不要改动 `~/.claude-switcher/accounts/` 下的存档结构
 5. **维护纪律**：`core/`、`daemons/`、`installer/` 下任何文件改动后，提交前必须运行 `scripts/gen-sums.sh` 重新生成根目录 `SHA256SUMS` 并同提交——自动更新靠它校验工件完整性，清单与代码不一致会导致所有用户更新失败
-6. **守护进程脚本只在 root 目录**：`/Library/Application Support/claude-switcher/` 下的保镖/看门狗属 root:wheel，任何功能都不要改回写 `~/.local/bin/` 下的同名脚本（用户可写=提权面）；需要变更时引导用户重跑安装器。日志写在 root 所有的 `/var/log/claude-switcher/`，不要以 root 追加到用户目录（符号链接会被跟过去）
+6. **守护进程脚本只在 root 目录**：`/Library/Application Support/claude-switcher/` 下的保镖/巡检属 root:wheel，任何功能都不要改回写 `~/.local/bin/` 下的同名脚本（用户可写=提权面）；需要变更时引导用户重跑安装器。日志写在 root 所有的 `/var/log/claude-switcher/`，不要以 root 追加到用户目录（符号链接会被跟过去）
 
 ## 问题修复决策规则（Agent 必须遵守）
 
@@ -314,7 +317,7 @@ Windows 用户请使用 `windows/` 下的 PowerShell 版本。关键差异与注
 - **保镖实现**：用计划任务（AtLogOn 触发）启动隐藏 PowerShell 常驻进程，10 秒巡检，与 Mac 版行为一致。
 - **robocopy 退出码**：0-7 都是成功，8+ 才是失败——判断切换成败时不要按常规退出码判断。
 - **切换写入顺序**：先复制到 `accounts\<槽位>.new`，复制成功后才改名提交，旧快照暂存为 `.previous`。同盘时，载入暂存与换位备份放在 `%USERPROFILE%\.claude-switcher\staging\Claude.new` / `Claude.old`，避免 `%APPDATA%` 同时出现多个 Claude 数据目录；重定向到不同盘时回退 `%APPDATA%\Claude.new` / `Claude.old` 以避免跨卷改名。数据与 `current.txt` 先一起提交，再清理旧目录。预先存在的不明残留一律拒绝覆盖、绝不自动删除；仅 `staging\cleanup.json` 能证明路径与当前账号归属的 `Claude.old` 可在下次切换前重试清理。隔离回归：`powershell -NoProfile -ExecutionPolicy Bypass -File tests\windows-switch-integration.ps1`（临时目录 + 打桩进程，不需要真机账号）。
-- **账号数据目录**：传统 EXE 版为 `%APPDATA%\Claude`；旧目录不存在时自动发现 MSIX/Appx 的 `%LOCALAPPDATA%\Claude-Data\<PackageFamilyName>`（不是 macOS 的 `~/Library/Application Support/Claude`）。WPF 与 `status` 均支持 A–D、快照大小和日期；切换前必须重新完成审计。`keep-in-workspace.txt` 的语义与 macOS 相同，但 Windows 还需拒绝重解析点。
+- **账号数据目录**：传统 EXE 版为 `%APPDATA%\Claude`；旧目录不存在时自动发现 MSIX/Appx 的 `%LOCALAPPDATA%\Claude-Data\<PackageFamilyName>`（不是 macOS 的 `~/Library/Application Support/Claude`）。WPF 与 `status` 均支持 A–H、快照大小和日期；切换前必须重新完成审计。`keep-in-workspace.txt` 的语义与 macOS 相同，但 Windows 还需拒绝重解析点。
 - **代理客户端**：支持 `clash-verge` / `flclash` / `sing-box` / `clashx` / `surge` / `wireguard` / `other` / `auto`。`set-client` 同时更新核心脚本与 `proxy-mode.txt`，保镖每轮重新读取该文件；不要套用 macOS 的 root 守护同步方式。
 - **工具与快照**：`fingerprint`、`cli-info`、`open-safe`、`diagnose-proxy` 均已提供 Windows 实现。`snapshot-export` / `snapshot-import` 使用流式 `.csnap`（PBKDF2-HMAC-SHA256 200,000 轮、AES-256-CBC、HMAC-SHA256），不与 macOS DMG 兼容；密码仅经 stdin，先认证再解压，目标槽位非空或包路径越界必须拒绝。隔离回归另有 `tests\windows-snapshot-integration.ps1`。
 - **检查设置与日志**：Windows 有自己的 6 项非关键检查白名单（macOS 为 8 项），`allowOptionalFailures` 的作用边界与 macOS 一致；配置在 `%USERPROFILE%\.claude-switcher\checks.json`，脱敏日志在 `%USERPROFILE%\.claude-switcher\logs\client.log`，512 KiB 轮转。WPF 设置窗口和 `export-diagnostics` 可导出脱敏诊断 zip，不得包含账号、IP、凭据、Clash 配置或原始检查详情。独立代理诊断不得创建账号状态或写客户端日志。

diff --git a/README.md b/README.md
@@ -20,7 +20,7 @@
 
 ## 这是什么
 
-启动 Claude 之前跑完 **16 项环境审计**，硬性项不过就不拉起应用；放行之后由运行期看门狗守着出口，一变就停 Claude。账号切换用整目录快照（A–D 四个独立档案），而不是反复登录登出。
+启动 Claude 之前跑完 **16 项环境审计**，硬性项不过就不拉起应用；放行之后由运行期巡检守着出口，一变就停 Claude。账号切换用整目录快照（A–H 八个独立档案），而不是反复登录登出。
 
 桌面窗口标题为「Claude 环境检查器」，命令行入口 `~/.local/bin/claude-switch.sh`。界面是单文件 SwiftUI，无 Xcode 工程、无第三方依赖；图标由 `assets/icon-gen.swift` 生成。
 
@@ -42,7 +42,7 @@
 | 02 | TUN 网卡 | 系统代理开着但流量没被接管 |
 | 03 | 出口 IP | 出口国家 / 地区异常 |
 | 04 | IP 一致性 | 出口 IP 漂移（对固定基线比对 + 按出口类型分级，同一实例一周内不应换出口） |
-| 05 | 时区 | 系统时区与 IP 归属地冲突、看门狗守着旧目标 |
+| 05 | 时区 | 系统时区与 IP 归属地冲突、巡检守着旧目标 |
 | 06 | 地区 Locale | 系统区域设置不符 |
 | 07 | IPv6 | 双栈旁路直连 |
 | 08 | DNS 隧道 | Fake-IP 校验 + 上游解析器地域 |
@@ -68,9 +68,10 @@
 ## 重点能力
 
 - **四维加权评分**：身份 / 隔离 / 一致 / 守护四个维度，用来诊断和排序。首页**不显示这个分**——圆环里是「16/16」这样一个读数（通过项数 / 总项数），环的粗细只做边框、颜色只回答「能不能启动」。分数低不等于起不来：IP 纯净度偏低会让分掉下来，但它只是软信号，照样能启动。
-- **IP 纯净度**：四源交叉（ipquery / ip-api / ipinfo / stopforumspam）+ 本地 PTR，类型基线减分。代理特征要**两家以上**印证（或 ipquery 自己报出来）才拦启动；只有 ip-api 单方面报、而其余源都说机房时，判机房并标「代理特征(单源)」，只提示不拦。分数是信誉分、判定是「能不能开」，文案里两者分开写（`判定:拦启动 / 判定:仅提示`）—— 同名同分不代表同一结论。只靠「没查到异常」判出来的住宅封顶 70 分，满分留给有正面住宅证据的出口。
+- **IP 纯净度**：四源交叉（ipquery / ip-api / ipinfo / stopforumspam）+ 本地 PTR，类型基线减分。代理特征要**两家以上**印证（或 ipquery 自己报出来）才拦启动；只有 ip-api 单方面报、而其余源都说机房时，判机房并标「代理特征(单源)」，只提示不拦。分数是信誉分、判定是「能不能开」，文案里两者分开写（`判定:拦启动 / 判定:仅提示`）—— 同名同分不代表同一结论。
+- **扣分是连续的，封顶只在证据不足时用**：风险分每 5 分扣 1 分信誉（60 分以上封顶扣 12），滥用记录 1 次扣 5 分、45 次以上扣 14，没有「档口跳变」。类型只看结构证据（机房标志 / 代理特征 / Tor / PTR / 运营商名），**不受信誉分影响**——否则同一个出口 risk_score 差 1 分，类型标签、分数和动作建议会一起翻。两种封顶：只靠「没查到异常」判出来的住宅封顶 **70**（满分留给有正面住宅证据的出口）；风险维度没验成（缺 `risk_score`、只剩一家风险源、或整轮降级）封顶 **85** 且最多只给「仅提示」——「没查」不能冒充「查干净了」。这类结果 5 分钟后自动重查。
 - **节点扫描与应用**：只读扫描当前控路 Selector 的候选节点并排名；「应用最优节点」只在门禁允许时出现，按下时实时复核门禁、切后复查出口国家，任一步不达标自动回滚。细节见 [AGENTS.md](AGENTS.md)。
-- **一槽一套环境**：切 A–D 时连同 Claude Code 的 `~/.claude/` 与 `~/.claude.json` 一起换，桌面版和终端不再共用同一份登录态。槽位卡上的 `CLI` 角标表示这个槽位也存了终端状态。
+- **一槽一套环境**：切 A–H 时连同 Claude Code 的 `~/.claude/` 与 `~/.claude.json` 一起换，桌面版和终端不再共用同一份登录态。槽位卡上的 `CLI` 角标表示这个槽位也存了终端状态。
 - **槽位绑定出口**：可以给每个槽位声明「就走这条线」，切过去时先换线路再切账号；没绑定的槽位沿用「本次扫描最优节点」。绑定优先于本次扫描结果。
 - **运行期守护**：放行后每 10s 比对出口、每 60s 跑整轮审计；异常连续两次才停 Claude，拦截写 `incidents.log` 并走窗口横幅 / 菜单栏 / 系统通知三条提醒。
 - **菜单栏常驻**：关窗口只隐藏、Dock 不显示图标；菜单显示当前槽位与最近检查结果。
@@ -138,7 +139,7 @@ cd claude-switcher
 # 双击 installer/安装.command，自动识别代理客户端、代理组名与地区目标
 ```
 
-安装器在本机编译界面 App、装入核心脚本与保镖 / 时区看门狗。产物为 ad-hoc 签名、未公证，首次被 Gatekeeper 拦截时右键打开，或到「系统设置 → 隐私与安全性」放行；手动打包见 `scripts/package-macos.sh`。打 `v*` 标签推送即触发 `.github/workflows/release.yml` 自动构建并发布全平台安装包。
+安装器在本机编译界面 App、装入核心脚本与保镖 / 时区巡检。产物为 ad-hoc 签名、未公证，首次被 Gatekeeper 拦截时右键打开，或到「系统设置 → 隐私与安全性」放行；手动打包见 `scripts/package-macos.sh`。打 `v*` 标签推送即触发 `.github/workflows/release.yml` 自动构建并发布全平台安装包。
 
 Windows / Linux Beta 见 [windows/README.md](windows/README.md) · [linux/README.md](linux/README.md)。浏览器侧检测页在 `docs/`，线上地址 [huanfine.github.io/claude-switcher](https://huanfine.github.io/claude-switcher/)（需在仓库 Settings → Pages 选 `main` / `/docs` 启用），本地预览见 [docs/WEB-README.md](docs/WEB-README.md)。
 
@@ -202,7 +203,7 @@ HTTP / 部分不支持 UDP 的节点在运行时内核里是 `udp:false`。`prox
 
 想维持 `proxy` 策略，就在客户端里换一个支持 UDP 的节点。
 
-> `IP纯净度` 显示「类型预估·未实测信誉」时，说明四家风险源当时都没答上来，分数只是按运营商名推出的类型基线，不是实测信誉；这类结果 5 分钟后会自动重查。
+> `IP纯净度` 显示「类型预估·未实测信誉」或「风险未验证·封顶」时，说明风险维度这次没验成——前者是四家风险源都没答上来，分数只是按运营商名推出的类型基线；后者是拿到了类型证据（至少一家源答了）但拿不到风险分，分数封顶 85、判定最多到「仅提示」。两种都不是实测信誉，5 分钟后会自动重查。
 
 ## 出口 IP 评分看起来不对
 
@@ -212,10 +213,10 @@ HTTP / 部分不支持 UDP 的节点在运行时内核里是 `udp:false`。`prox
 |---|---|---|
 | 分数后拼着 `;; connection timed out;` | 反向解析超时把 `dig` 的诊断行当成了 PTR，既冒充「这个 IP 存在」，又被当成运营商名 | 已修，诊断行一律丢弃 |
 | 分数忽高忽低、时好时坏、偶尔挂「风险源不可达」 | `.purity-cache.lock` 残留（进程被 kill / 断电），此后所有评分都写不进缓存，每次检查重新打四个网络请求 | 已修，超过 60 秒的锁自动回收；抢不到锁也不丢本次结果 |
-| 三家源都说不是机房、风险分为 0，却报「机房 · 建议换住宅 IP」 | 早期版本把「运营商名不在住宅白名单」直接当成机房，而白名单只覆盖 11 个国家几十家运营商 | 已修：改成证据驱动判型——两家风险源都否认证机房、风险分 ≤10、无滥用记录时判住宅（与 ip.net.coffee 同口径）；证据不足才退「类型不明」70 分。ASN 属性也不再对未收录的运营商报机房 |
+| 三家源都说不是机房、风险分为 0，却报「机房 · 建议换住宅 IP」 | 早期版本把「运营商名不在住宅白名单」直接当成机房，而白名单只覆盖 11 个国家几十家运营商 | 已修：改成证据驱动判型——只看机房标志 / 代理特征 / Tor / PTR / 运营商名，信誉分不再参与类型判定；三家源都说不是机房就判住宅，证据不足才退「类型不明」。ASN 属性也不再对未收录的运营商报机房 |
 | 升级到新版后，界面里**还**是写「疑似机房 / 类型不明」 | 界面上的每条结论都来自 `~/.local/bin/claude-switch.sh`，App 自己不判型。只换 App（`*-app-only.*`）不会更新脚本 | 先核对：`shasum -a 256 ~/.local/bin/claude-switch.sh` 与仓库 `SHA256SUMS` 是否一致；不一致就跑 `bash <(curl -fsSL https://raw.githubusercontent.com/huanfine/claude-switcher/main/scripts/upgrade-core.sh)` |
 
-同一台机器、同一个出口 `66.17.65.38`（AS3257）的实测对照：旧核心报「疑似机房 · 70/100 类型不明」，当前核心报「运营商未归类 · 100/100 住宅宽带」——差别只在脚本版本，不在 App。
+同一台机器、同一个出口 `66.17.65.38`（AS3257 GTT）的实测对照：更早的核心报「疑似机房 · 70/100 类型不明」；中间一版报「运营商未归类 · 100/100 住宅宽带」（那一版把「没查到异常」直接当成了满分）；当前核心报「评分 70/100 · 住宅宽带 · GTT Communications Inc. ·无正面住宅证据 · 判定:仅提示」——三家源都说它干净（`risk_score` 0、无代理/机房标志、无滥用记录），所以判住宅；但运营商名不在住宅白名单、PTR 也解不出来，拿不到**正面**住宅证据，因此封顶 70。差别只在脚本版本，不在 App。
 
 分数是 IP 信誉（宽口径），「能不能拿它开 Claude」由硬门槛单独决定，两者会背离：例如 65 分的代理/VPN 节点会被硬门槛排除，49 分的机房节点反而可用。`node-scan` 报告会逐条写出排除原因。
 
@@ -265,7 +266,7 @@ FIX:WebRTC ✗ UDP 3478 规则没置顶 · 点「一键修复」
 ## 日常使用
 
 1. 双击桌面应用图标 → 等 16 项检查；硬性项全绿再选账号启动，红项用「一键修复」。
-2. B/C/D 首次各登录一次，之后 A–D 随切随用、互不干扰。桌面版和终端里的 `claude` 各算一套状态，切槽位时两份一起换；**终端里开着 `claude` 时不能切**，先退出再点。
+2. B/C/D 首次各登录一次，之后 A–H 随切随用、互不干扰。桌面版和终端里的 `claude` 各算一套状态，切槽位时两份一起换；**终端里开着 `claude` 时不能切**，先退出再点。
 3. 换国家节点后跑 `~/.local/bin/claude-switch.sh set-region` 重新锁定国家 / 时区 / 地区格式。
 4. 换代理客户端在界面下拉框切换，或 `set-client <mode>`；切换后自动重审。
 5. 要给某个槽位固定出口：先点清单里「更优节点」那一行扫描一次，再点槽位卡右上角的链接图标，从报告里的候选里选一条。想还原成「每次按扫描结果决定」，在同一个菜单里解除绑定即可。命令行等价写法见下表 `slot-node`。
@@ -281,7 +282,7 @@ FIX:WebRTC ✗ UDP 3478 规则没置顶 · 点「一键修复」
 | 启动租约 | `lease` / `lease-check`（120 秒；绑定报告、环境指纹与核心脚本） |
 | 一键修复 | `fix` |
 | 切账号 / 状态 | `switch A\|B\|C\|D` / `status` |
-| 运行期看门狗 | `watch [间隔] [整轮周期]` |
+| 运行期巡检 | `watch [间隔] [整轮周期]` |
 | 节点扫描 / 应用 | `node-scan` / `node-apply [节点名]` |
 | 槽位绑定出口 | `slot-node list` / `slot-node get <A\|B\|C\|D>` / `slot-node set <A\|B\|C\|D> <节点名>` / `slot-node clear <A\|B\|C\|D>` |
 | 重锁地区 / 换客户端 | `set-region` / `set-client <mode>` / `get-client` |
@@ -311,10 +312,10 @@ FIX:WebRTC ✗ UDP 3478 规则没置顶 · 点「一键修复」
 |---|---|---|---|
 | 逐项检查 | 16 项 | 14 项（缺 IP纯净度 / 更优节点） | 14 项（同左） |
 | 报告 v2 / 离线转换 | ✓ | ✓ | ✓ |
-| 一键修复 / A–D 切换 | ✓ | ✓ | ✓ |
+| 一键修复 / A–H 切换 | ✓ | ✓ | ✓ |
 | 保镖（代理进程没了就停 Claude） | ✓ root LaunchDaemon | ✓ 计划任务 | ✓ |
 | 启动租约（120 秒一次性授权） | ✓ | ✗ | ✗ |
-| 运行期出口看门狗（出口漂移即停） | ✓ | ✗ | ✗ |
+| 运行期出口巡检（出口漂移即停） | ✓ | ✗ | ✗ |
 | 故障演练 `drill`（证明断开不直连） | ✓ | ✗ | ✗ |
 | 离线复核 `verdict` / `evidence` | ✓ | ✗ | ✗ |
 | 节点扫描 / 应用 / 槽位绑定 | ✓ | ✗ | ✗ |

diff --git a/README.en.md b/README.en.md
@@ -38,7 +38,7 @@ repository, command-line script, and build artifact name.
   reachability, and better-node availability. Results are `ok` / `fail` /
   `config` / `warn` / `skip`; both `fail` and `config` block launch, and `skip`
   never counts as a pass.
-- **Snapshot switching (A–D)** — archives and restores whole account
+- **Snapshot switching (A–H)** — archives and restores whole account
   directories; APFS copy-on-write cloning avoids duplicating unchanged data.
   A slot also carries the Claude Code CLI state (`~/.claude/` and
   `~/.claude.json`), so the terminal and the desktop app never share a session.
@@ -64,6 +64,12 @@ repository, command-line script, and build artifact name.
   and local vantage points to distinguish a proxied path from a direct one.
 - **IP purity score** — an explainable 0–100 score from four independent data
   sources plus local PTR, with degraded verdicts when sources are unreachable.
+  Reputation penalties are continuous (about one point per five risk points,
+  no tier jumps) and never influence the node *type* — type comes only from
+  structural evidence, so a one-point reputation wobble cannot relabel a line.
+  Two caps exist: a residential verdict reached only by "nothing bad found"
+  caps at 70, and an unverified risk dimension caps at 85 with at most an
+  advisory verdict — "not checked" never reports as "clean".
   A low score is a soft signal: it never decides whether Claude can start, so
   the home screen shows passed-check counts (16/16) instead of an overall
   score, and the ring's color only answers whether Claude can start.
@@ -81,7 +87,7 @@ repository, command-line script, and build artifact name.
 - **Web check page** — a static browser-side check for exit IP, time zone,
   language, WebRTC, IPv6, DNS reachability, and common fingerprint signals.
 - **Windows and Linux ports (beta)** — PowerShell and bash implementations with
-  the same audit and switching model. Windows also includes A–D accounts,
+  the same audit and switching model. Windows also includes A–H accounts,
   proxy-client switching, read-only inspection tools, isolated browsing,
   standalone proxy diagnostics, and encrypted `.csnap` snapshots (not
   compatible with macOS DMG). New Windows UI and runtime flows still require
@@ -224,9 +230,12 @@ restarts the proxy client once. To switch manually:
 ```
 
 Keep `proxy` only if you switch to a UDP-capable node. When `IP purity` reports
-a "type estimate / reputation not measured" score, none of the risk sources
-answered: that number is a type-based baseline, not a measured reputation, and
-it is retried automatically after 5 minutes.
+a "type estimate / reputation not measured" or "risk not verified / capped"
+score, the risk dimension was not verified this round: either none of the risk
+sources answered (the number is a type-based baseline) or the type evidence
+arrived without a reputation score (capped at 85, never better than an
+advisory). Neither is a measured reputation, and both are retried after
+5 minutes.
 
 ## Exit IP score looks wrong
 
@@ -344,7 +353,7 @@ back at the same button.
    before switching (it writes to the directory being swapped).
 4. To pin an exit to a slot, scan once from the "更优节点 / Better node" row,
    then use the link icon in the top-right corner of a slot card and pick a
-   candidate from the report (`slot-node set <A-D> <node>` on the command line).
+   candidate from the report (`slot-node set <A-H> <node>` on the command line).
 5. After changing to a node in another country, run
    `~/.local/bin/claude-switch.sh set-region`.
 
@@ -374,7 +383,7 @@ protection differs**. Check what your platform actually has before installing:
 |---|---|---|---|
 | Per-item checks | 16 | 14 (no IP purity / better node) | 14 (same) |
 | Report v2 / offline conversion | ✓ | ✓ | ✓ |
-| One-click repair / A–D switching | ✓ | ✓ | ✓ |
+| One-click repair / A–H switching | ✓ | ✓ | ✓ |
 | Bodyguard (stops Claude when the proxy dies) | ✓ root LaunchDaemon | ✓ scheduled task | ✓ |
 | Launch lease (120s one-shot authorization) | ✓ | ✗ | ✗ |
 | Runtime egress watchdog (stops on egress drift) | ✓ | ✗ | ✗ |

diff --git a/tests/MENU-BAR-TESTING.md b/tests/MENU-BAR-TESTING.md
@@ -6,7 +6,7 @@
 python3 -m unittest discover -s tests -v
 ```
 
-菜单栏模型场景（场景数见 `tests/test_menu_bar_model.py` 的 `SCENARIOS`）覆盖多账号状态解析、A–D 切换与首次使用提示、旧版状态回退、本地账号刷新、切换前重新审计、警告放行、失败/缺行/重复行/空值/超时/非零退出阻断、忙碌互斥、退出保护、隐藏回调与单窗口生命周期。非 macOS 系统跳过这部分，继续运行现有的核心脚本测试。
+菜单栏模型场景（场景数见 `tests/test_menu_bar_model.py` 的 `SCENARIOS`）覆盖多账号状态解析、A–H 切换与首次使用提示、旧版状态回退、本地账号刷新、切换前重新审计、警告放行、失败/缺行/重复行/空值/超时/非零退出阻断、忙碌互斥、退出保护、隐藏回调与单窗口生命周期。非 macOS 系统跳过这部分，继续运行现有的核心脚本测试。
 
 ## UI 演示程序
 
@@ -63,7 +63,7 @@ _trash/menu-bar-demo/MenuBarFixture "$PWD/_trash/menu-bar-demo/fake-core.sh"
 
 截图只走隔离演示路径（`MenuBarFixture` 或复用生产 `ContentView`、不调用 `VM.start()` 的独立探针）。不要运行真实账号切换或把住宅/代理 IP、凭据放进截图。
 
-以下为隔离演示的主窗口截图，不是顶部状态栏下拉菜单截图。截图由隔离 UI 探针生成（复用生产 `ContentView`，不调用 `VM.start()`），展示浅色 / 深色两种系统控件外观；含 16 项检查清单、A–D 槽位，以及圆环里的**通过项数**（这一版起圆环不显示分数）；不含真实账号、出口 IP 或凭据：
+以下为隔离演示的主窗口截图，不是顶部状态栏下拉菜单截图。截图由隔离 UI 探针生成（复用生产 `ContentView`，不调用 `VM.start()`），展示浅色 / 深色两种系统控件外观；含 16 项检查清单、A–H 槽位，以及圆环里的**通过项数**（这一版起圆环不显示分数）；不含真实账号、出口 IP 或凭据：
 
 | 浅色系统控件 | 深色系统控件 |
 | --- | --- |

diff --git a/ARCHITECTURE.md b/ARCHITECTURE.md
@@ -98,7 +98,7 @@ lease                → claude-switcher-lease/1
 | `bodyguard` | 保镖 | 服务注册 + 脚本归属与权限 | 硬 |
 | `rules` | 规则置顶 | 读运行内核 `/rules` 按索引逐条比对，不是比对磁盘文件 | 硬 |
 | `client_language` / `asn` | 客户端语言 / ASN属性 | defaults 读取 / ASN 归属 | 软 |
-| `ip_purity` | IP纯净度 | 4 源并行 + PTR，类型基线 − 扣分 | 软 |
+| `ip_purity` | IP纯净度 | 4 源并行 + PTR，类型基线 − 连续扣分；类型只看结构证据 | 软 |
 | `ecosystem` | 生态可达性 | claude.ai 与 api.anthropic.com 各一次 | 软 |
 | `better_node` | 更优节点 | 只读扫描报告文件，检查预算内零网络请求 | 软 |
 
@@ -121,11 +121,11 @@ lease                → claude-switcher-lease/1
 
 ## 7. 账号隔离与节点治理
 
-一个槽位 = 两棵树：桌面版 `accounts/<A-D>/`，Claude Code `cli/<A-D>/home{,.json}`。
+一个槽位 = 两棵树：桌面版 `accounts/<A-H>/`，Claude Code `cli/<A-H>/home{,.json}`。
 归档是移动语义；载入先写 `.new` 成功后才提交；目标槽位没存档时 `restore_cli` 会清空现场
 （否则新槽位继承上一个账号登录态，等于没隔离）；`.new` / `.previous` 残留一律拒绝覆盖。
 
-节点治理是**只读优先**：扫描不切节点（逐节点实测会污染 iphistory 并触发看门狗），
+节点治理是**只读优先**：扫描不切节点（逐节点实测会污染 iphistory 并触发巡检），
 硬门槛先于评分（国家、Tor/代理、UDP），差距不足 10 分不出 BEST，应用时重新实时判门禁、
 切后复查国家不达标自动回滚。槽位绑定优先于本次最优。
 

diff --git a/SECURITY.md b/SECURITY.md
@@ -15,7 +15,7 @@
 
 - **Kill-Switch 是进程级急停，不是防火墙级 fail-closed**。保镖以 10 秒周期巡检"内核进程 × TUN 网卡"双因子，从隧道断开到进程被杀存在已知时间窗口（TOCTOU）；窗口内恰好发出的数据包不在防护范围内。未来版本评估引入 pf 防火墙锚点做网络级 fail-closed
 - **自动更新的信任根是 GitHub 仓库本身**。每次更新前会对照仓库根的 `SHA256SUMS` 逐项校验 zip 工件（core 脚本 + daemons 模板 + installer），可防传输层篡改/中间人换包；但如果仓库账号本身被攻陷，校验清单和工件会同时被替换——这是目前的信任边界。维护侧的发布纪律：`core/`、`daemons/`、`installer/` 任何改动提交前必须运行 `scripts/gen-sums.sh` 重新生成 SHA256SUMS，二者永远同提交
-- **守护进程脚本 root 所有、用户态不可写**。保镖与时区看门狗安装在 `/Library/Application Support/claude-switcher/`（root:wheel, 755），launchd 以 root 执行这些脚本，普通用户进程无法篡改其内容——本地权限提升面已收敛
+- **守护进程脚本 root 所有、用户态不可写**。保镖与时区巡检安装在 `/Library/Application Support/claude-switcher/`（root:wheel, 755），launchd 以 root 执行这些脚本，普通用户进程无法篡改其内容——本地权限提升面已收敛
 - **自动更新运行在用户态**（LaunchAgent），不再持有 root；需要 root 的守护脚本变更只提示用户运行安装器，绝不自动写系统目录
 
 ## 安全变更记录
